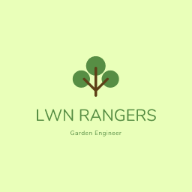
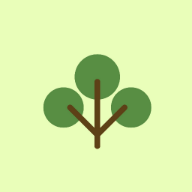
Updated the tinedog website

Changed region(s): [[0.1875, 0.2812, 0.8125, 0.7812]]

diff --git a/TinDog-Start-master-example/TinDog-Start-master/index.html b/TinDog-Start-master-example/TinDog-Start-master/index.html
@@ -4,7 +4,7 @@
 <head>
   <meta charset="utf-8">
   <title>Lawn Rangers</title>
-<link rel="icon" href="images\favicon-32x32.png">
+  <link rel="icon" href="images\favicon-32x32.png">
 
   <!-- Bootstrap Css StyleSheet -->
   <link rel="stylesheet" href="https://stackpath.bootstrapcdn.com/bootstrap/4.5.2/css/bootstrap.min.css" integrity="sha384-JcKb8q3iqJ61gNV9KGb8thSsNjpSL0n8PARn9HuZOnIxN0hoP+VmmDGMN5t9UJ0Z" crossorigin="anonymous">
@@ -34,12 +34,13 @@
 
       <!-- Nav Bar -->
       <nav class="navbar navbar-expand-lg navbar-dark">
-        <a class="navbar-brand" href="">lwn rangers</a>
+        <!-- <a class="navbar-brand" href="">lawn rangers</a> -->
+        <img class="logo-image" src="images\Lwn Rangers Logo.png" alt="Lawn Rangers logo">
         <button class="navbar-toggler" type="button" data-toggle="collapse" data-target="#navbarSupportedContent" aria-controls="navbarSupportedContent" aria-expanded="false" aria-label="Toggle navigation">
           <span class="navbar-toggler-icon"></span>
         </button>
         <div class="collapse navbar-collapse" id="navbarSupportedContent">
-          <ul class="navbar-nav ml-auto">
+          <ul class="navbar-nav ml-auto d-flex flex-row-reverse">
             <li class="nav-item">
               <a class="nav-link" href="">Contact</a>
             </li>
@@ -57,10 +58,10 @@
       <div class="row">
 
         <div class="col-lg-6">
-          <h1>We give you the “home turf” advantage.</h1>
-          <button type="button" class="btn btn-dark btn-lg download-button"><i class="fab fa-apple"></i>  Download  </button>
+          <h1>We give you the  <br> “home turf” advantage.</h1>
+          <button type="button" class="btn btn-dark btn-lg download-button"><i class="fab fa-apple"></i> Download </button>
 
-          <button type="button" class="btn btn-outline-light btn-lg download-button"><i class="fab fa-google-play"></i>  Download  </button>
+          <button type="button" class="btn btn-outline-light btn-lg download-button"><i class="fab fa-google-play"></i> Download </button>
         </div>
 
         <div class="col-lg-6">
@@ -68,7 +69,7 @@
         </div>
       </div>
       <div class="social-media-icons-1">
-        
+
       </div>
     </div>
   </section>
@@ -78,14 +79,26 @@
 
   <section id="features">
 
-    <h3>Easy to use.</h3>
-    <p>So easy to use, even your dog could do it.</p>
+    <div class="row">
 
-    <h3>Elite Clientele</h3>
-    <p>We have all the dogs, the greatest dogs.</p>
+      <div class="feature-box col-lg-4">
+        <i class=" icon fas fa-check-circle fa-4x"></i>
+        <h3>FAQs</h3>
+        <p>Have Questions? We have the answer!</p>
+      </div>
 
-    <h3>Guaranteed to work.</h3>
-    <p>Find the love of your dog's life or your money back.</p>
+      <div class="feature-box col-lg-4">
+        <i class="icon fas fa-bullseye fa-4x"></i>
+        <h3>Request for Cuts</h3>
+        <p>Pricing and Fees.</p>
+      </div>
+
+      <div class="feature-box col-lg-4">
+        <i class="icon fas fa-carrot fa-4x"></i>
+        <h3>About Us</h3>
+        <p>Check out our Professional Background.</p>
+      </div>
+    </div>
 
   </section>
 
@@ -94,13 +107,30 @@
 
   <section id="testimonials">
 
-    <h2>I no longer have to sniff other dogs for love. I've found the hottest Corgi on TinDog. Woof.</h2>
-    <img src="images/dog-img.jpg" alt="dog-profile">
-    <em>Pebbles, New York</em>
-
-    <!-- <h2 class="testimonial-text">My dog used to be so lonely, but with TinDog's help, they've found the love of their life. I think.</h2>
-    <img class="testimonial-image" src="images/lady-img.jpg" alt="lady-profile">
-    <em>Beverly, Illinois</em> -->
+    <div id="carouselExampleControls" class="carousel slide" data-ride="carousel">
+    <div class="carousel-inner">
+      <div class="carousel-item active">
+        <img src="" class="d-block w-100" alt="">
+        <h2>"Remarkable Service! They show up on time and they are out with out a trace. Love it!"</h2>
+        <img class="testimonial-image" src="https://images.unsplash.com/photo-1528892952291-009c663ce843?ixlib=rb-1.2.1&ixid=eyJhcHBfaWQiOjEyMDd9&w=1000&q=80" alt="Male Customer">
+        <em>Jonah G, New York</em>
+      </div>
+      <div class="carousel-item">
+        <img src="" class="d-block w-100" alt="">
+        <h2 class="testimonial-text">"They do such a nice job! I never have to worry if anything will be missed."</h2>
+        <img class="testimonial-image" src="https://mir-s3-cdn-cf.behance.net/project_modules/max_1200/ebefbd16215647.562a6fe54dc45.jpg" alt="Female Customer">
+        <em>Beverly S, Illinois</em>
+      </div>
+    </div>
+    <a class="carousel-control-prev" href="#carouselExampleControls" role="button" data-slide="prev">
+      <span class="carousel-control-prev-icon" aria-hidden="true"></span>
+      <span class="sr-only">Previous</span>
+    </a>
+    <a class="carousel-control-next" href="#carouselExampleControls" role="button" data-slide="next">
+      <span class="carousel-control-next-icon" aria-hidden="true"></span>
+      <span class="sr-only">Next</span>
+    </a>
+  </div>
 
   </section>
 
@@ -108,10 +138,10 @@
   <!-- Press -->
 
   <section id="press">
-    <img src="images/techcrunch.png" alt="tc-logo">
-    <img src="images/tnw.png" alt="tnw-logo">
-    <img src="images/bizinsider.png" alt="biz-insider-logo">
-    <img src="images/mashable.png" alt="mashable-logo">
+    <img class= "press-image" src="images/techcrunch.png" alt="tc-logo">
+    <img class= "press-image" src="images/tnw.png" alt="tnw-logo">
+    <img class= "press-image" src="images/bizinsider.png" alt="biz-insider-logo">
+    <img class= "press-image" src="images/mashable.png" alt="mashable-logo">
 
   </section>
 

diff --git a/TinDog-Start-master-example/TinDog-Start-master/css/styles.css b/TinDog-Start-master-example/TinDog-Start-master/css/styles.css
@@ -1,53 +1,123 @@
 #title {
-  background-color: #a2de96
+  background-color: #158467
 }
 
-body{
-font-family: 'Baloo Tamma 2', cursive !important;
+body {
+  font-family: 'Baloo Tamma 2', cursive !important;
 }
 
-.container-fluid{
+.container-fluid {
   padding: 3% 15% !important;
 }
 
 /* navigation bar */
-
-.navbar{
-padding: 0 0 4.5rem;
+.navbar {
+  padding: 0 0 4.5rem;
+  font-weight: 300;
 }
 
-.navbar-brand{
+.navbar-brand {
   font-size: 30px !important;
 }
 
-.nav-item{
+.nav-item {
   padding: 0 18px;
 }
 
-.nav-link{
-font-size: 1.4rem;
-font-weight: lighter;
-
+.nav-link {
+  font-size: 1.5rem;
+  font-weight: lighter;
 }
 
 /* header */
 h1 {
   font-family: 'Staatliches', cursive;
-  font-size: 4rem !important;
+  font-size: 60px !important;
   line-height: 1.5;
   font-weight: 700;
   color: white;
 }
 
+h2 {
+  /* font-family: 'Staatliches', cursive; */
+}
+
+h3 {
+font-family: 'Staatliches', cursive;
+}
+
+/* paragraphs */
+p {
+  color: #8f8f8f;
+  font-weight: 300;
+}
+
 /* download buttons */
-.download-button{
+.download-button {
   margin: 5% 3% 5% 0;
 }
 
 /* Title image */
-.title-image{
+.title-image {
   max-width: 90%;
   height: auto;
-  padding-bottom: 45%;
-  transform: rotate(5deg);
+  padding-bottom: 20%;
+  position: relative;
+  left: 10%;
+  /* transform: rotate(5deg); */
+}
+
+.logo-image {
+  width: 20%;
+  height: 25%;
+  border-radius: 50%;
+}
+
+.icon{
+  color: #a35d6a;
+  margin-bottom: 1rem;
+}
+
+.icon:hover{
+color: #519872;
+}
+
+/* features */
+
+#features{
+  padding: 8% 15%;
+}
+
+.feature-box {
+  text-align: center;
+  padding: 5%;
+}
+
+/* testimonials */
+#testimonials {
+  padding: 9% 15%;
+  text-align: center;
+  background-color: #519872;
+  color: #ffff;
+  font-size: 30px !important;
+
+}
+
+.testimonial-image{
+  width: 10%;
+  border-radius: 75px;
+  margin: 20px;
+}
+
+/* press */
+
+#press{
+  background-color: #519872;
+  text-align: center;
+  padding-bottom: 3%;
+}
+
+.press-image{
+  width: 15%;
+  margin: 20px 20px 50px
 }
